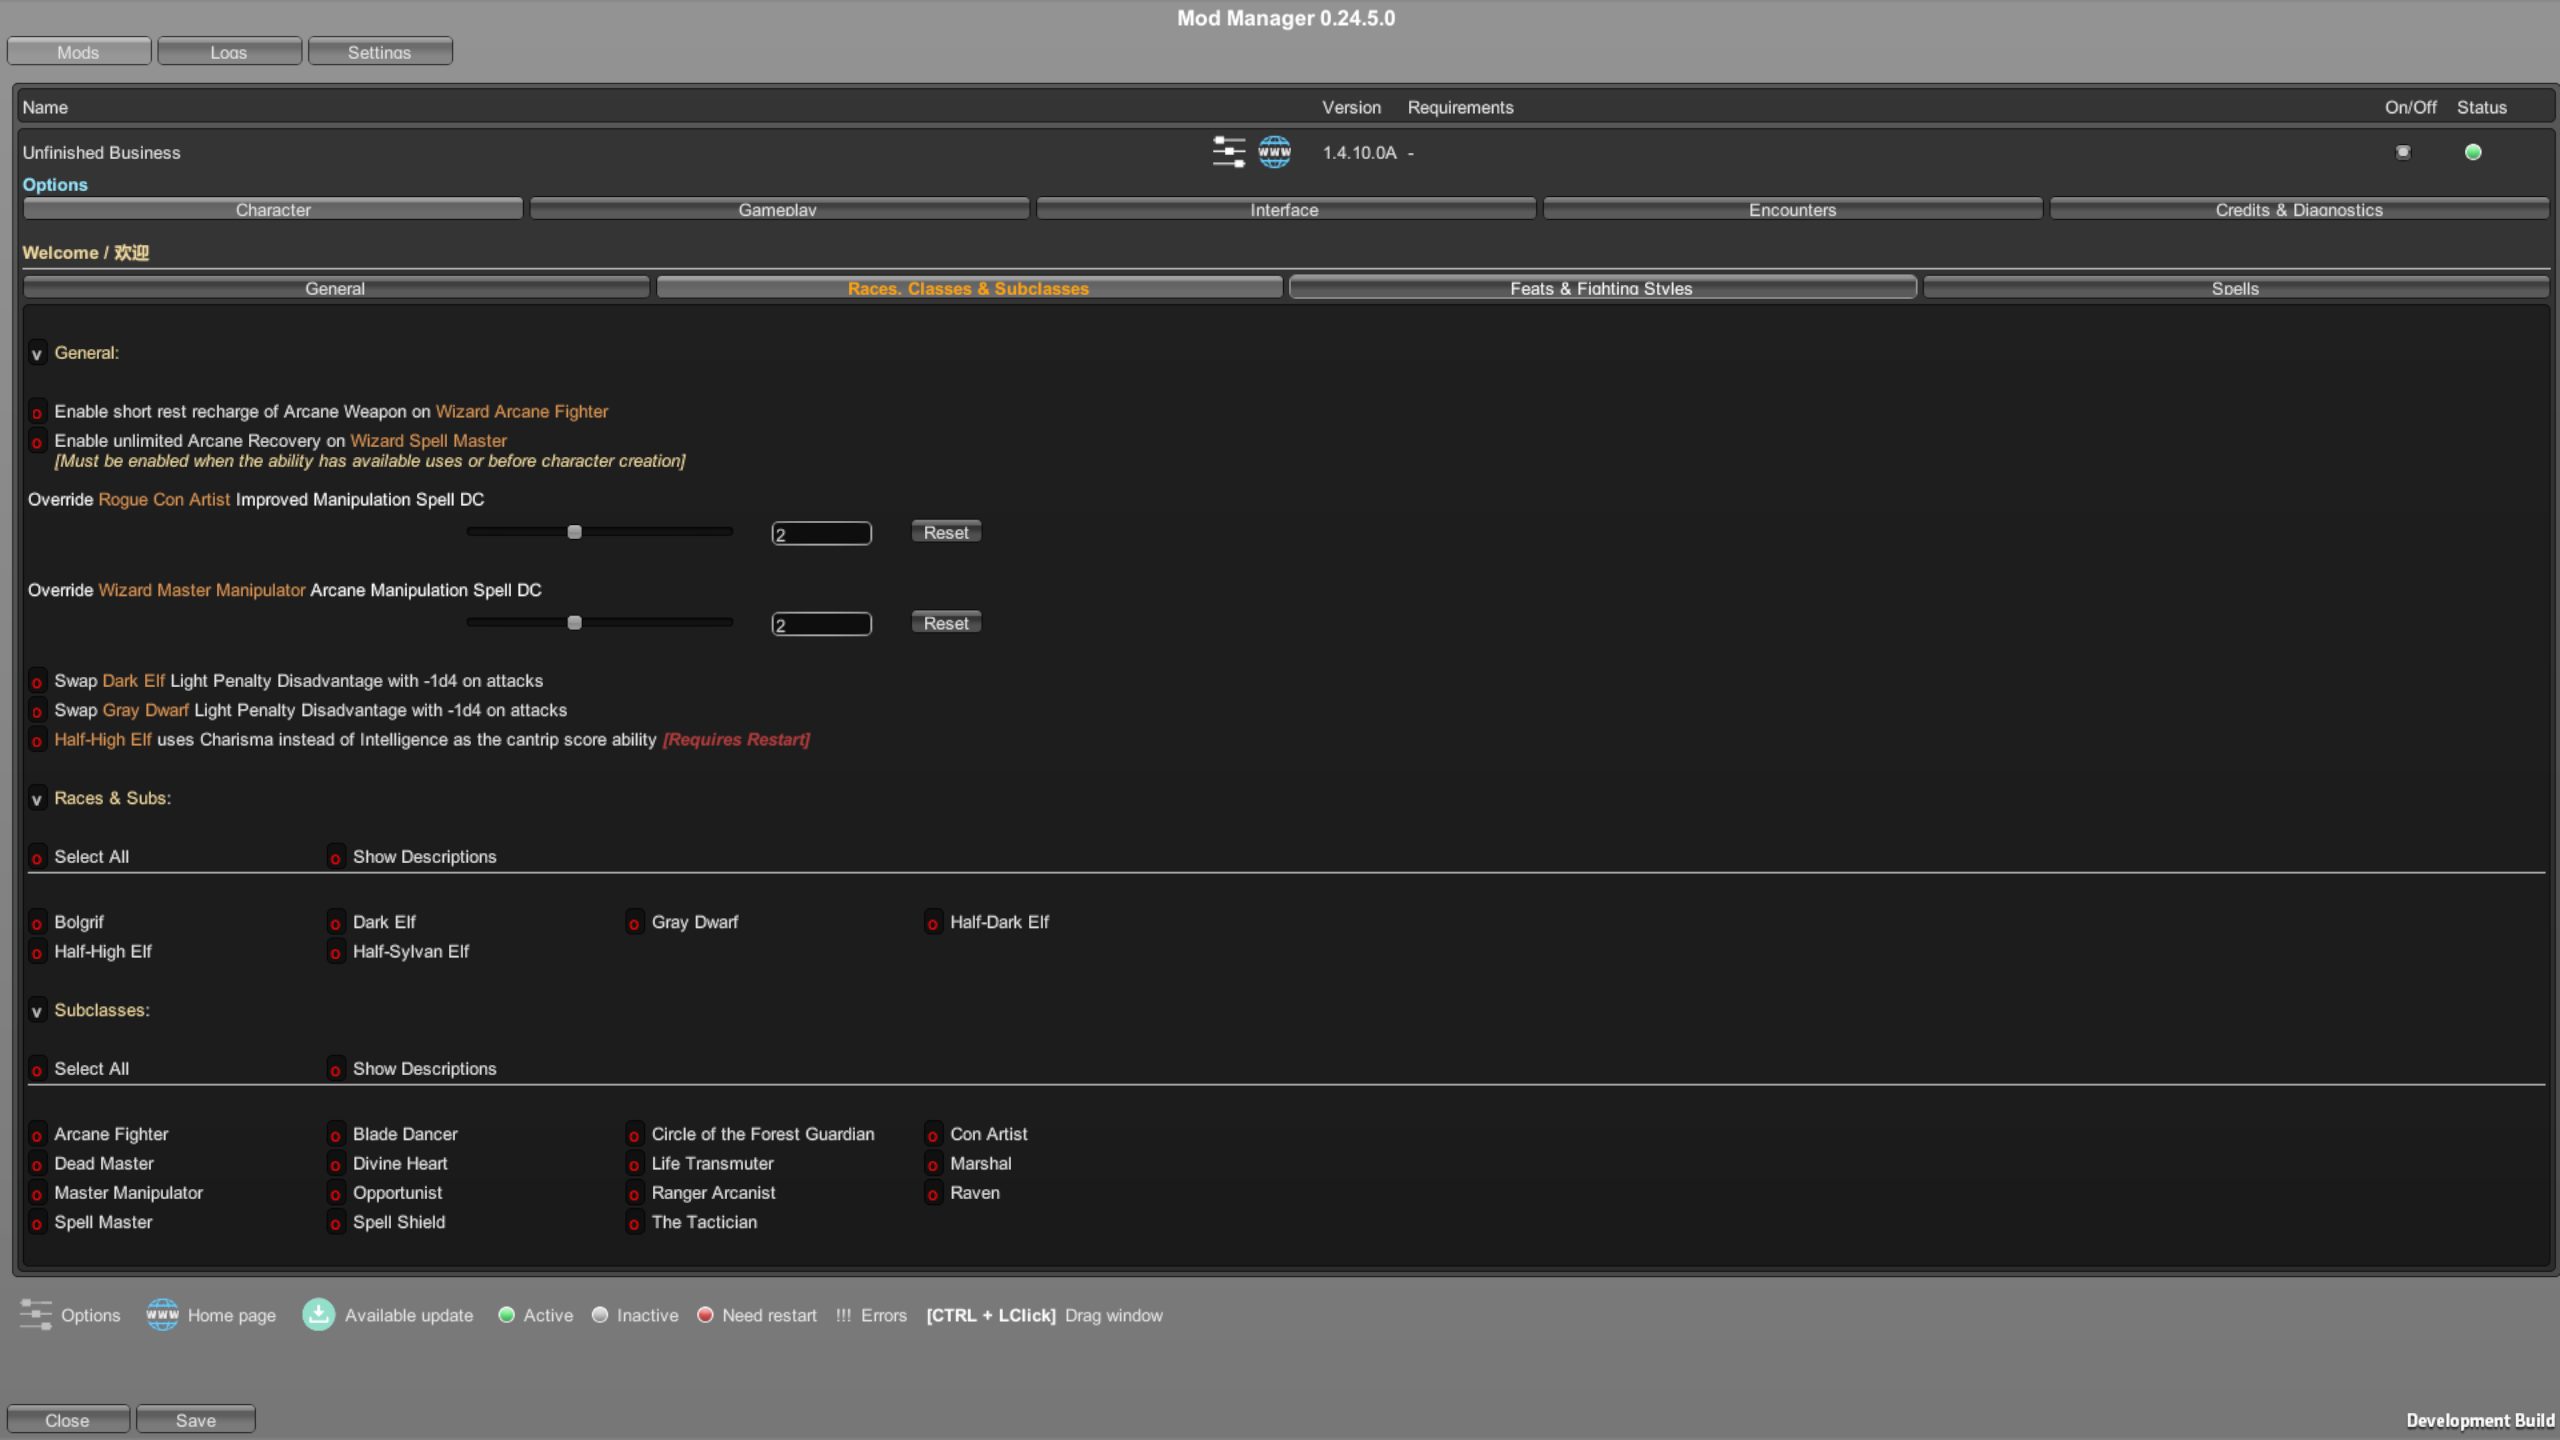
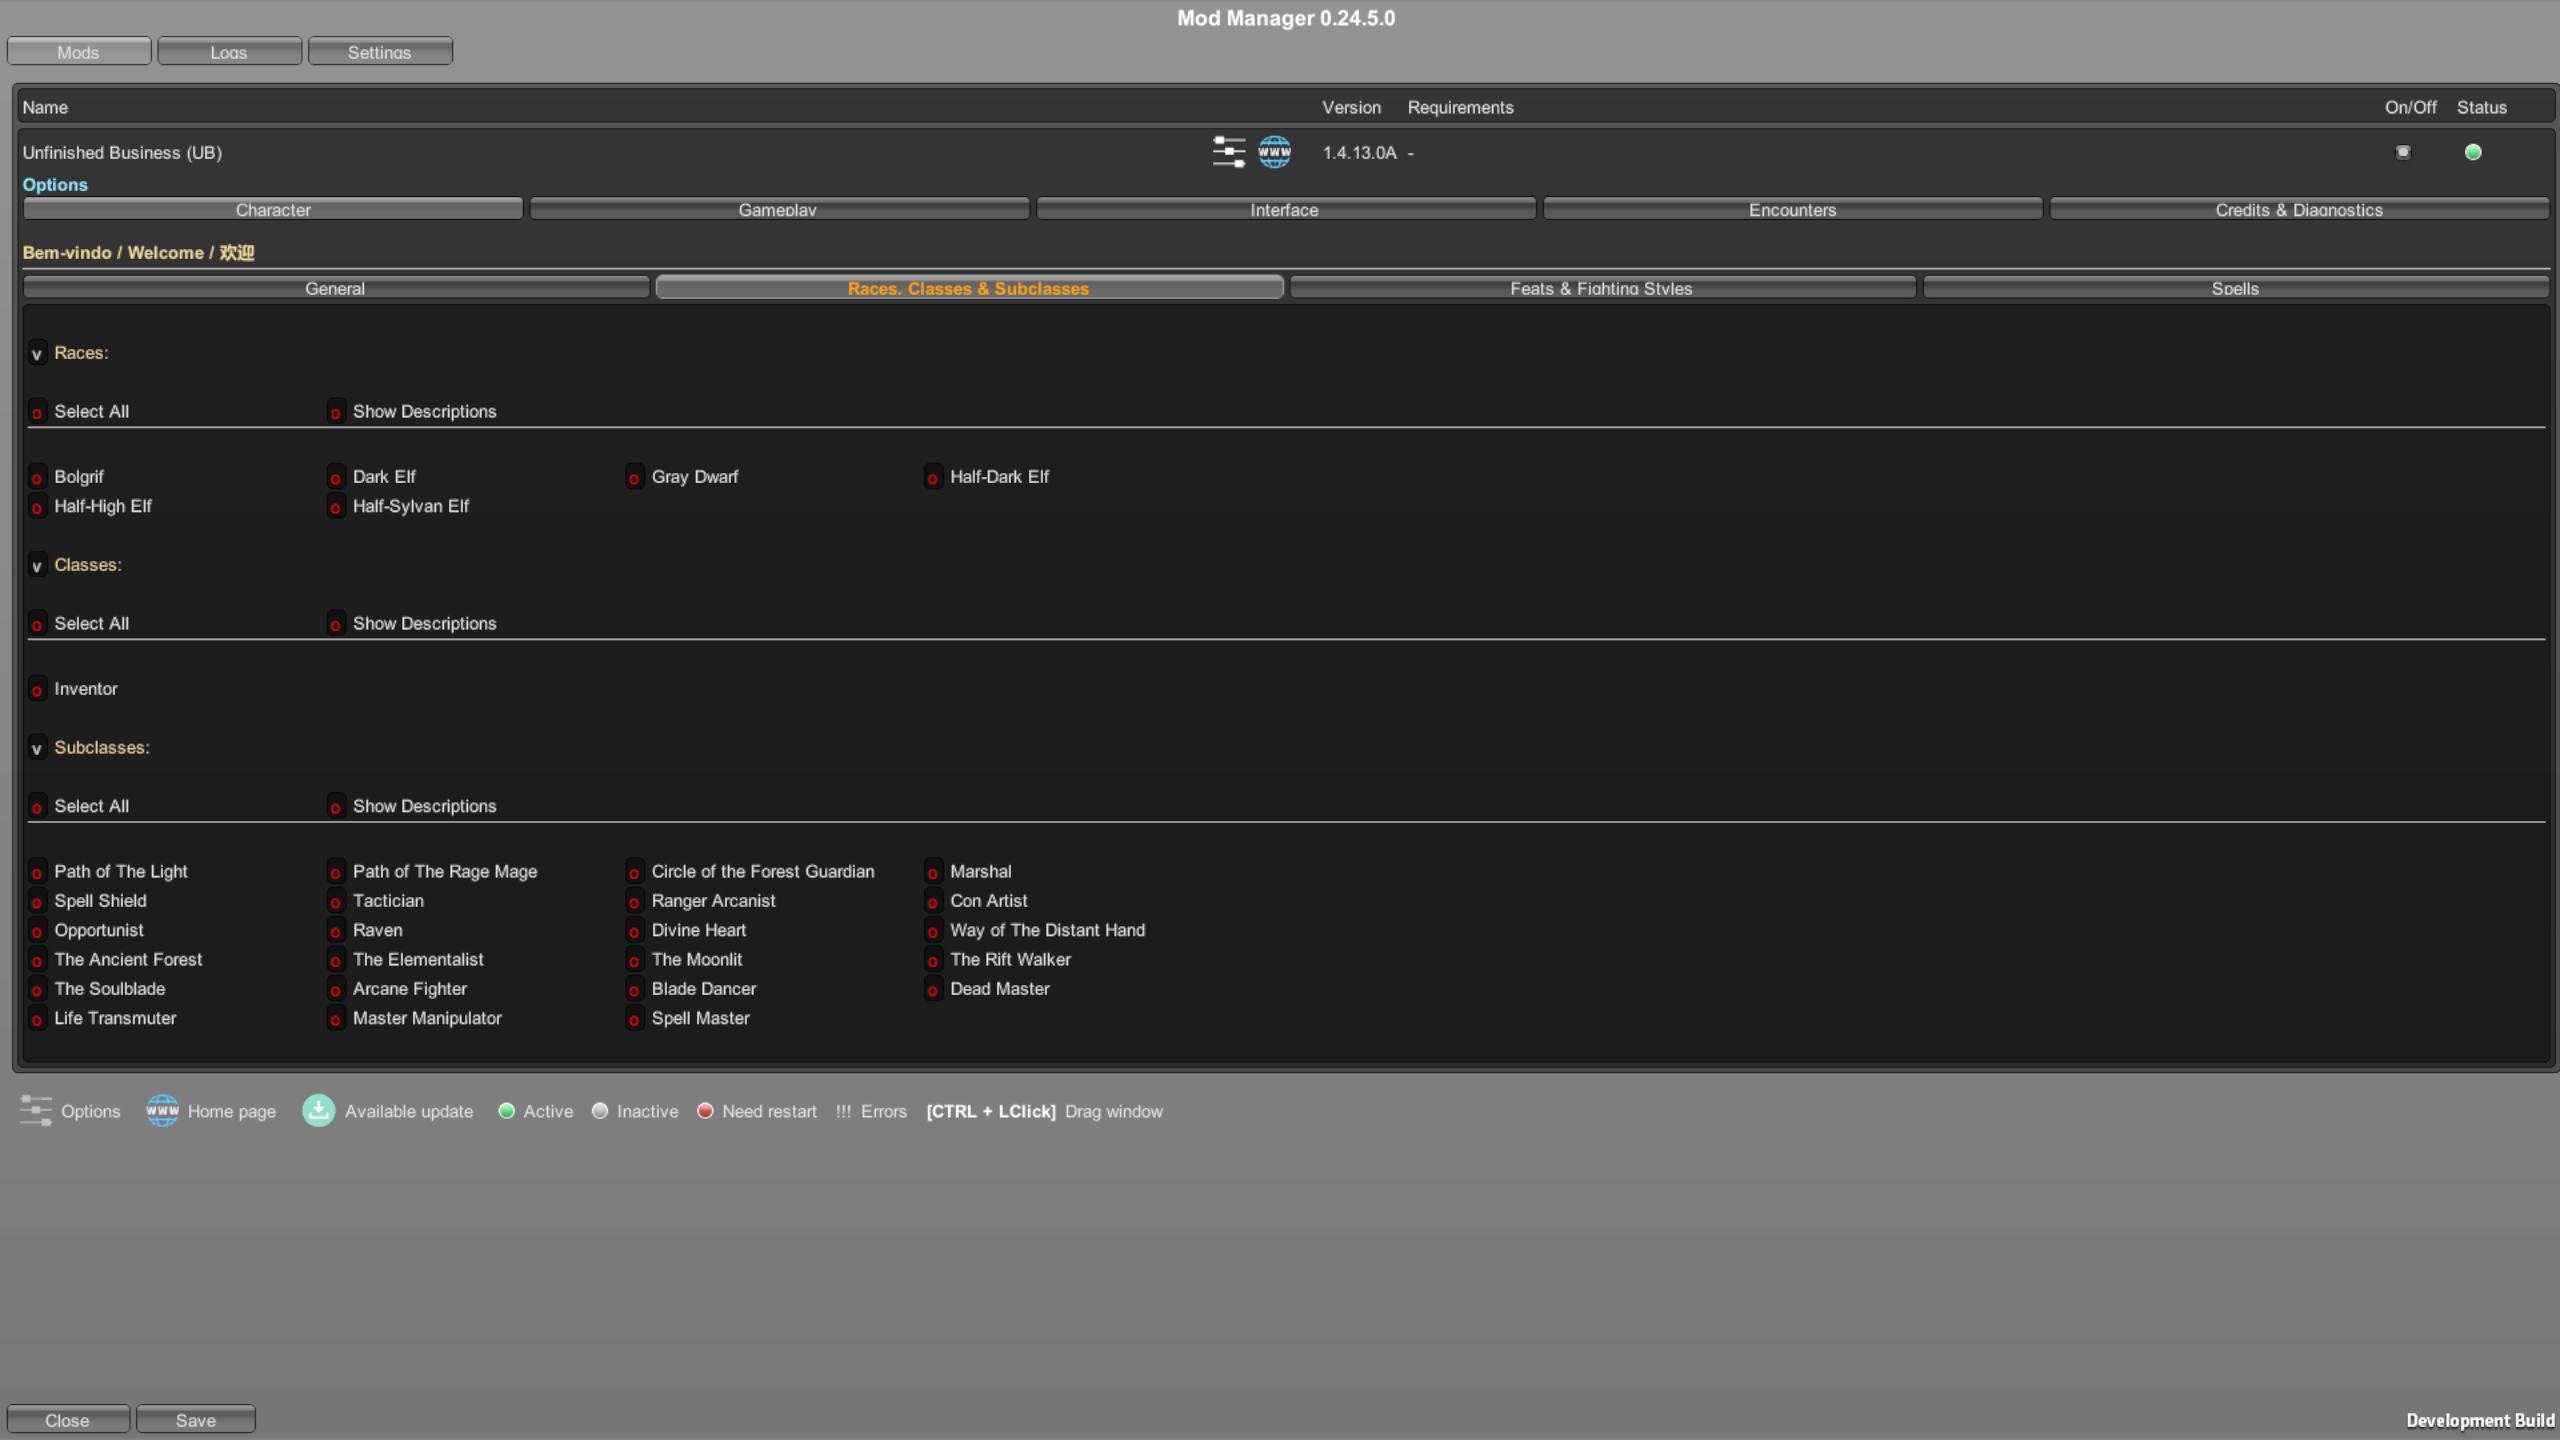
update Nexus media

diff --git a/SolastaUnfinishedBusiness/Displays/DiagnosticsDisplay.cs b/SolastaUnfinishedBusiness/Displays/DiagnosticsDisplay.cs
@@ -28,7 +28,7 @@ This is a collection of work from the Solasta modding community. It includes mul
 [*] A list of other mods you have installed [you shouldn't have any].
 [*] A short description of the bug.
 [*] A step-by-step procedure to reproduce it.
-[*] The save, character and log files.
+[*] The save, character and log files [b](check HINT below)[/b].
 [/list]
 
 [b]HINT:[/b] Check the folder [i]C:\Users\[b]YOUR_USER_NAME[/b]\AppData\LocalLow\Tactical Adventures\Solasta[/i] for the info we need.
@@ -53,10 +53,10 @@ You can contribute to this work at [url=https://github.com/SolastaMods/SolastaUn
 
 [b]HINT:[/b] Doorstop Proxy is the preferred install method but won't work on some Windows configurations or MacOS. Use the Assembly method as an alternative in case you don't see the UMM UI upon game launch.
 
-[b]STEP 2:[/b] Install Unfinished Business (CE):
+[b]STEP 2:[/b] Install Unfinished Business (UB):
 
 [list]
-[*] Download CE from the files section and drag and drop the zip over the UMM Mods tab
+[*] Download UB from the files section and drag and drop the zip over the UMM Mods tab
 [/list]
 
 [img]https://github.com/SolastaMods/SolastaUnfinishedBusiness/blob/master/Media/UMM-02.png?raw=true[/img]
@@ -81,16 +81,16 @@ You can contribute to this work at [url=https://github.com/SolastaMods/SolastaUn
 
 [/list]
 
-[b]STEP 2:[/b] Install Unfinished Business (CE):
+[b]STEP 2:[/b] Install Unfinished Business (UB):
 
 [list]
 [*] Create the folder [b]/Applications/Mods[/b]
-[*] Download CE from the files section, unzip and copy it under above folder
+[*] Download UB from the files section, unzip and copy it under above folder
 [/list]
 
 [size=4][b]Features[/b][/size]
 
-All settings start disabled by default. On first start the mod will display an welcome message and open the UMM Mod UI settings again.
+All settings start disabled by default.
 
 [size=3][b]Races[/b][/size]
 
@@ -102,9 +102,6 @@ All settings start disabled by default. On first start the mod will display an w
 
 [list=1]
 {2}
-[/list]
-
-[list=1]
 {3}
 [/list]
 
@@ -138,6 +135,14 @@ All settings start disabled by default. On first start the mod will display an w
 {8}
 [/list]
 
+[size=4][b]Credits[/b][/size]
+
+[list]
+{0}
+[/list]
+";
+        
+/*
 [size=3][b]All Settings[/b][/size]
 
 [img]https://github.com/SolastaMods/SolastaUnfinishedBusiness/blob/master/Media/01-Character-General.png?raw=true[/img]
@@ -154,30 +159,14 @@ All settings start disabled by default. On first start the mod will display an w
 [line]
 [img]https://github.com/SolastaMods/SolastaUnfinishedBusiness/blob/master/Media/07-Gameplay-Tools.png?raw=true[/img]
 [line]
-[img]https://github.com/SolastaMods/SolastaUnfinishedBusiness/blob/master/Media/08-Interface-DungeonMaker.png?raw=true[/img]
+[img]https://github.com/SolastaMods/SolastaUnfinishedBusiness/blob/master/Media/08-Interface-GameUi.png?raw=true[/img]
 [line]
-[img]https://github.com/SolastaMods/SolastaUnfinishedBusiness/blob/master/Media/09-Interface-GameUi.png?raw=true[/img]
+[img]https://github.com/SolastaMods/SolastaUnfinishedBusiness/blob/master/Media/09-Interface-DungeonMaker.png?raw=true[/img]
 [line]
-[img]https://github.com/SolastaMods/SolastaUnfinishedBusiness/blob/master/Media/10-Interface-KeyboardMouse.png?raw=true[/img]
+[img]https://github.com/SolastaMods/SolastaUnfinishedBusiness/blob/master/Media/10-Interface-Translations.png?raw=true[/img]
 [line]
-[img]https://github.com/SolastaMods/SolastaUnfinishedBusiness/blob/master/Media/11-Interface-Translations.png?raw=true[/img]
-[line]
-[img]https://github.com/SolastaMods/SolastaUnfinishedBusiness/blob/master/Media/12-Encounters-General.png?raw=true[/img]
-[line]
-[img]https://github.com/SolastaMods/SolastaUnfinishedBusiness/blob/master/Media/13-Encounters-Bestiary.png?raw=true[/img]
-[line]
-[img]https://github.com/SolastaMods/SolastaUnfinishedBusiness/blob/master/Media/14-Encounters-Pool.png?raw=true[/img]
-[line]
-[img]https://github.com/SolastaMods/SolastaUnfinishedBusiness/blob/master/Media/15-CreditsDiagnostics-Credits.png?raw=true[/img]
-[line]
-
-[size=4][b]Credits[/b][/size]
-
-[list]
-{0}
-[/list]
-";
-
+*/
+        
         internal static void DisplayDiagnostics()
         {
             UI.Label("");
@@ -223,11 +212,11 @@ All settings start disabled by default. On first start the mod will display an w
 
             if (percentageCompleteCe == 0)
             {
-                exportCeLabel = "Export CE blueprints";
+                exportCeLabel = "Export UB blueprints";
             }
             else
             {
-                exportCeLabel = "Cancel CE export at " + $"{percentageCompleteCe:00.0%}".Bold().Khaki();
+                exportCeLabel = "Cancel UB export at " + $"{percentageCompleteCe:00.0%}".Bold().Khaki();
             }
 
             using (UI.HorizontalScope())
@@ -273,7 +262,7 @@ All settings start disabled by default. On first start the mod will display an w
             {
                 UI.ActionButton("Create TA diagnostics", DiagnosticsContext.CreateTaDefinitionDiagnostics,
                     UI.Width(200));
-                UI.ActionButton("Create CE diagnostics", DiagnosticsContext.CreateCeDefinitionDiagnostics,
+                UI.ActionButton("Create UB diagnostics", DiagnosticsContext.CreateCeDefinitionDiagnostics,
                     UI.Width(200));
                 UI.ActionButton("Dump Descriptions", DisplayDumpDescription, UI.Width(200));
             }
@@ -286,15 +275,6 @@ All settings start disabled by default. On first start the mod will display an w
             {
                 Main.Settings.DebugLogVariantMisuse = logVariantMisuse;
             }
-
-            ItemDefinitionVerification.Mode =
-                Main.Settings.DebugLogVariantMisuse
-                    ? ItemDefinitionVerification.Verification.Log
-                    : ItemDefinitionVerification.Verification.None;
-            EffectFormVerification.Mode =
-                Main.Settings.DebugLogVariantMisuse
-                    ? EffectFormVerification.Verification.Log
-                    : EffectFormVerification.Verification.None;
 
             UI.Label("");
         }
@@ -346,9 +326,10 @@ All settings start disabled by default. On first start the mod will display an w
                 collectedCredits,
                 GenerateDescription(racesAndSubs),
                 GenerateDescription(ClassesContext.Classes),
-                GenerateDescription(DatabaseRepository.GetDatabase<CharacterSubclassDefinition>()
-                    .Where(x => !SubclassesContext.Subclasses.Contains(x))
-                    .Where(DiagnosticsContext.IsCeDefinition)),
+                GenerateDescription(
+                    DatabaseRepository.GetDatabase<CharacterSubclassDefinition>()
+                        .Where(x => !SubclassesContext.Subclasses.Contains(x))
+                        .Where(DiagnosticsContext.IsCeDefinition)),
                 GenerateDescription(SubclassesContext.Subclasses),
                 GenerateDescription(FeatsContext.Feats),
                 GenerateDescription(FightingStyleContext.FightingStyles),
